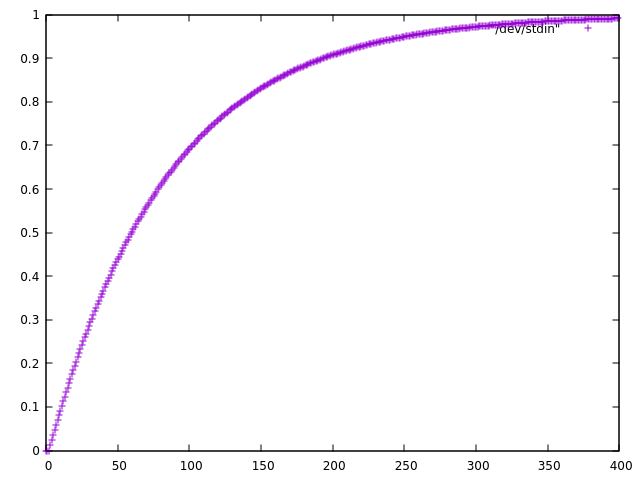
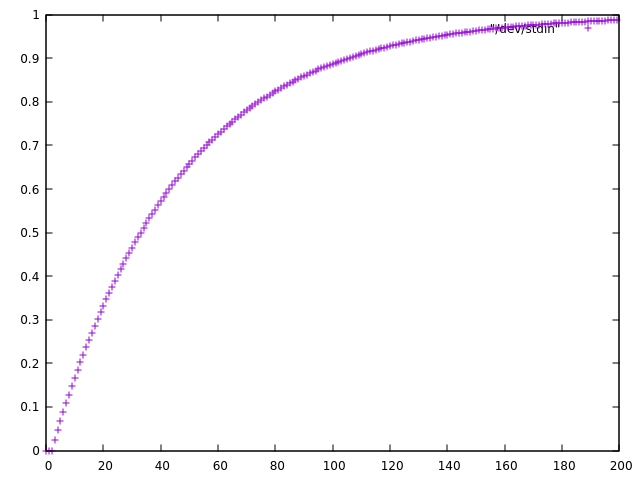
Update README

diff --git a/README.md b/README.md
@@ -6,8 +6,10 @@ It works as described in [this blog post](https://ro-che.info/articles/2018-08-0
 
 By default, it takes a BED file as an input and calculates the probability for
 every interval based on its length.
-When the `--raw` switch, it reads the list of sequence lengths (one per line) instead.
+With the `--raw` switch, it reads the list of sequence lengths (one per line) instead.
 
+By default, it considers both the motif and its reverse complement.
+With the `--norc` switch, it only considers the motif itself.
 
 ## Installation
 
@@ -21,13 +23,15 @@ When the `--raw` switch, it reads the list of sequence lengths (one per line) in
 
 
 ```
-Usage: motif-stats [-r|--raw] [-i ARG] [-o ARG] MOTIF
+Usage: motif-stats [-r|--raw] [--norc] [-i ARG] [-o ARG] MOTIF
   Calculate the probability of a motif occurrence in an interval
 
 Available options:
   -h,--help                Show this help text
   -r,--raw                 take a list of interval lengths as an input (the
                            default is BED file)
+  --norc                   consider only motif itself (default: consider also
+                           its reverse complement
   -i ARG                   the input file (default: stdin)
   -o ARG                   the output file (default: stdout)
   MOTIF                    motif represented as a string of IUPAC codes
@@ -41,8 +45,8 @@ Let's calculate the probability with which the pattern `GCCB` (i.e.
     % echo 100 | motif-stats -r GCCB
     0.6885116541460469
 
-Do the same for all lengths from 1 to 400 and plot the results:
+Do the same for all lengths from 1 to 200 and plot the results:
 
-    % seq 1 400 | motif-stats -r GCCB | gnuplot -p -e 'plot "/dev/stdin"'
+    % seq 1 200 | motif-stats -r GCCB | gnuplot -p -e 'plot "/dev/stdin"'
 
 ![](plot.png)
